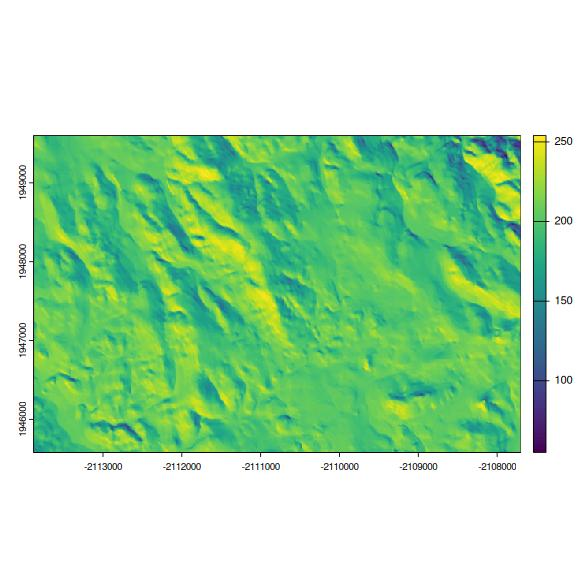
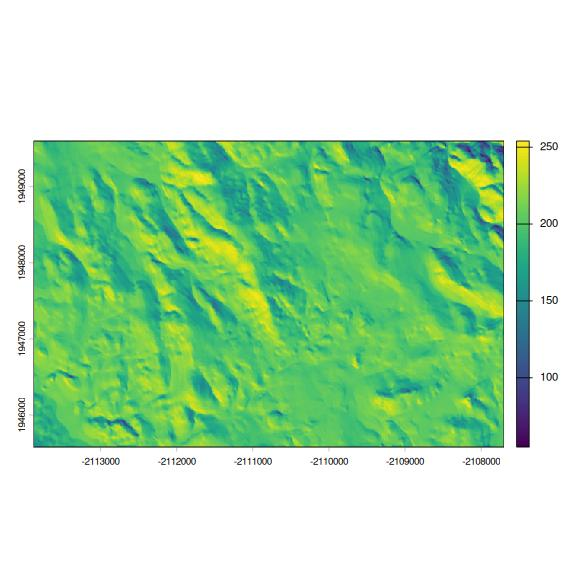
fix: replace USGS/3DEP/10m (deprecated) with USGS/SRTMGL1_003 in tests and examples  - the 3DEP/10m asset has been deprecated in favor of an ImageCollection (USGS/3DEP/10m_collection)

Changed region(s): [[0.0306, 0.2143, 0.9796, 0.7959], [0.0306, 0.5204, 0.0918, 0.6122]]

diff --git a/README.md b/README.md
@@ -1,5 +1,11 @@
+---
+output: markdown
+knit: litedown:::knit
+---
 
 <!-- README.md is generated from README.Rmd. Please edit that file -->
+
+
 
 # {rgeedim}
 
@@ -39,10 +45,6 @@ If you are running {rgeedim} interactively for the first time you may be prompte
 
 ``` {.r}
 library(rgeedim)
-```
-
-``` {.plain .message}
-#> rgeedim v0.2.8 -- using geedim 1.9.0 w/ earthengine-api 1.5.7
 ```
 
 ## Dependencies
@@ -139,14 +141,14 @@ library(terra)
 ```
 
 ``` {.plain .message}
-#> terra 1.8.29
+#> terra 1.8.80
 ```
 
 ``` {.r}
 f <- rast(x)
 f
 #> class       : SpatRaster 
-#> dimensions  : 402, 618, 2  (nrow, ncol, nlyr)
+#> size        : 402, 618, 2  (nrow, ncol, nlyr)
 #> resolution  : 10, 10  (x, y)
 #> extent      : -2113880, -2107700, 1945580, 1949600  (xmin, xmax, ymin, ymax)
 #> coord. ref. : NAD83 / Conus Albers (EPSG:5070) 
@@ -175,7 +177,7 @@ b <- gd_bbox(
 
 ## hillshade example
 # download 10m NED DEM in AEA
-x <- "USGS/3DEP/10m" |>
+x <- "USGS/SRTMGL1_003" |>
   gd_image_from_id() |>
   gd_download(
     region = b,
@@ -199,7 +201,7 @@ plot(c(dem, hillshade = hsd))
 ```
 ![](<man/figures/README-dem10-hillshade-1.jpeg>)
 
-Subsets of the `"USGS/3DEP/10m"` image result in multi-band GeoTIFF with `"elevation"` and `"FILL_MASK"` bands. In the contiguous US we know the DEM is continuous so the `FILL_MASK` is not that useful. With geedim >1.7 we retrieve only the `"elevation"` band by specifying argument `bands = list("elevation")`. This cuts the raw image size that we need to download in half.
+Subsets of the `"USGS/SRTMGL1_003"` image result in multi-band GeoTIFF with `"elevation"` and `"FILL_MASK"` bands. In the contiguous US we know the DEM is continuous so the `FILL_MASK` is not that useful. With geedim >1.7 we retrieve only the `"elevation"` band by specifying argument `bands = list("elevation")`. This cuts the raw image size that we need to download in half.
 
 ## Example: LiDAR Slope Map
 
